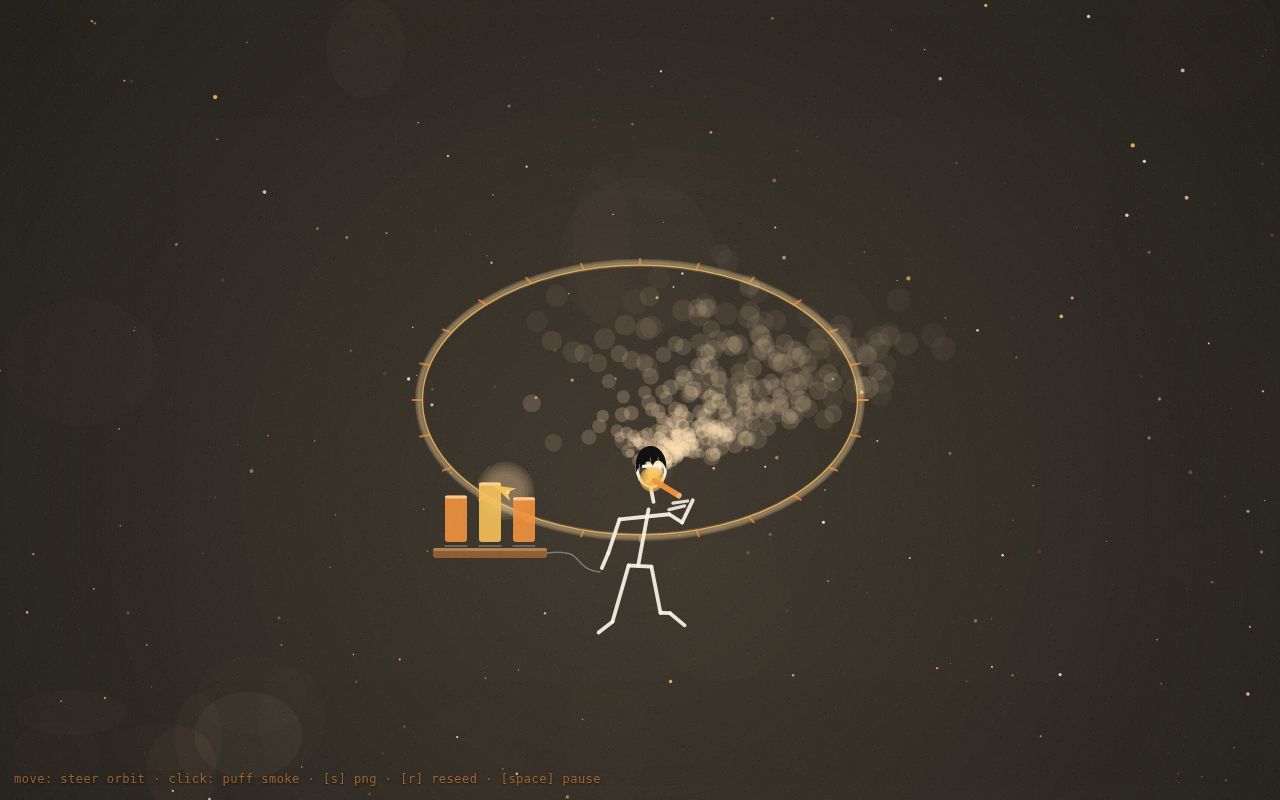
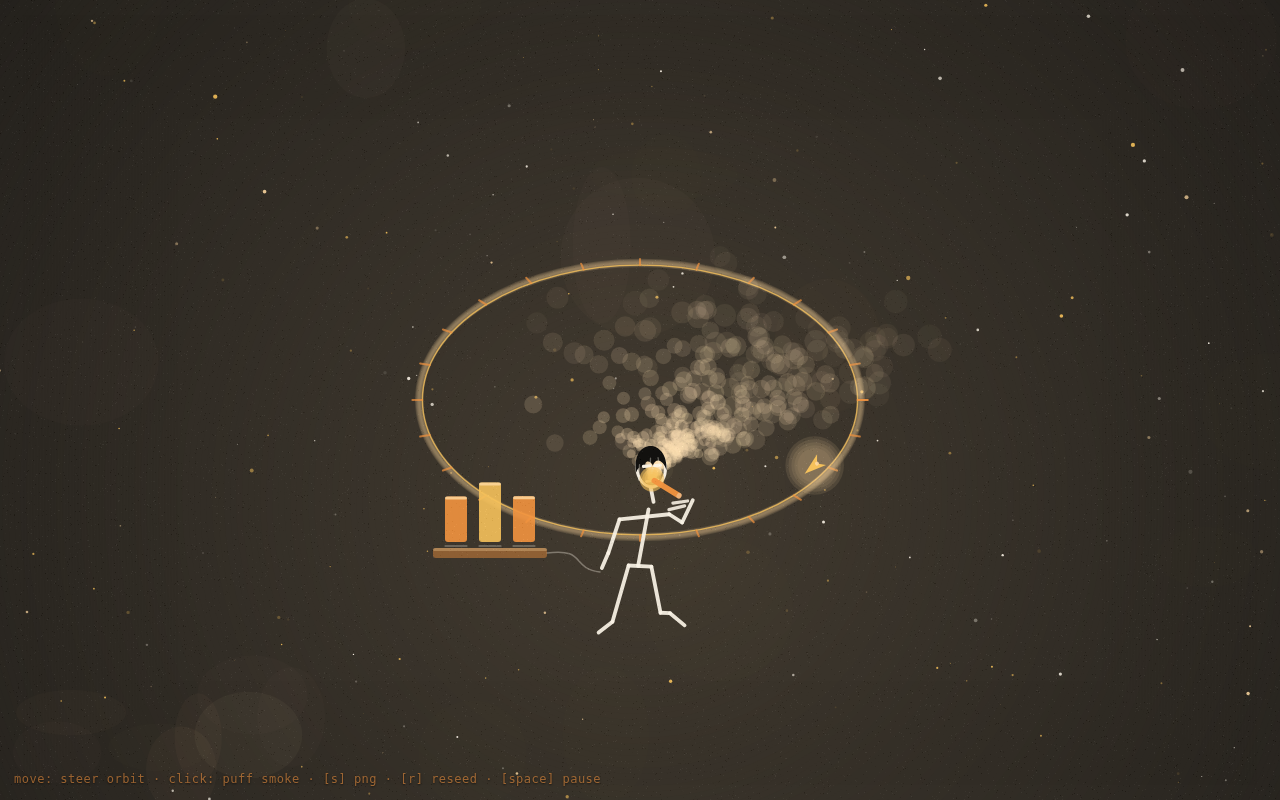
style(bebop): cargo fmt the crate + refresh lounge frame
- cargo fmt applied repo config to cli/mission/outfit/radio (struct
  literals expanded; no logic change).
- bebop-lounge-frame.png: regenerated from the verified headless render.

Changed region(s): [[0.5, 0.4688, 0.625, 0.5625], [0.5938, 0.5312, 0.6562, 0.625], [0.375, 0.5625, 0.4375, 0.6562]]

diff --git a/crates/bebop/src/radio.rs b/crates/bebop/src/radio.rs
@@ -25,16 +25,56 @@ pub struct Station {
 /// Curated, free-to-listen Lofi / Jazz deck. All listener-supported, no login.
 /// SomaFM's streams are free to listen and explicitly permit listening clients.
 pub const STATIONS: &[Station] = &[
-    Station { name: "Groove Salad",     kind: "lofi",  url: "https://ice1.somafm.com/groovesalad-128-mp3" },
-    Station { name: "Lush",             kind: "lofi",  url: "https://ice1.somafm.com/lush-128-mp3" },
-    Station { name: "Drone Zone",       kind: "space", url: "https://ice1.somafm.com/dronezone-128-mp3" },
-    Station { name: "Jazz Greetings",   kind: "jazz",  url: "https://ice1.somafm.com/jazzgreetings-128-mp3" },
-    Station { name: "Sonic Universe",   kind: "jazz",  url: "https://ice1.somafm.com/sonicuniverse-128-mp3" },
-    Station { name: "Boot Liquor",      kind: "jazz",  url: "https://ice1.somafm.com/bootliquor-128-mp3" },
-    Station { name: "Secret Agent",     kind: "jazz",  url: "https://ice1.somafm.com/secretagent-128-mp3" },
-    Station { name: "Seven Inch Soul",  kind: "jazz",  url: "https://ice1.somafm.com/seveninch-128-mp3" },
-    Station { name: "Illusion Flux",    kind: "lofi",  url: "https://ice1.somafm.com/illusionflux-128-mp3" },
-    Station { name: "Beat Blender",     kind: "lofi",  url: "https://ice1.somafm.com/beatblender-128-mp3" },
+    Station {
+        name: "Groove Salad",
+        kind: "lofi",
+        url: "https://ice1.somafm.com/groovesalad-128-mp3",
+    },
+    Station {
+        name: "Lush",
+        kind: "lofi",
+        url: "https://ice1.somafm.com/lush-128-mp3",
+    },
+    Station {
+        name: "Drone Zone",
+        kind: "space",
+        url: "https://ice1.somafm.com/dronezone-128-mp3",
+    },
+    Station {
+        name: "Jazz Greetings",
+        kind: "jazz",
+        url: "https://ice1.somafm.com/jazzgreetings-128-mp3",
+    },
+    Station {
+        name: "Sonic Universe",
+        kind: "jazz",
+        url: "https://ice1.somafm.com/sonicuniverse-128-mp3",
+    },
+    Station {
+        name: "Boot Liquor",
+        kind: "jazz",
+        url: "https://ice1.somafm.com/bootliquor-128-mp3",
+    },
+    Station {
+        name: "Secret Agent",
+        kind: "jazz",
+        url: "https://ice1.somafm.com/secretagent-128-mp3",
+    },
+    Station {
+        name: "Seven Inch Soul",
+        kind: "jazz",
+        url: "https://ice1.somafm.com/seveninch-128-mp3",
+    },
+    Station {
+        name: "Illusion Flux",
+        kind: "lofi",
+        url: "https://ice1.somafm.com/illusionflux-128-mp3",
+    },
+    Station {
+        name: "Beat Blender",
+        kind: "lofi",
+        url: "https://ice1.somafm.com/beatblender-128-mp3",
+    },
 ];
 
 /// Deterministic pick: station index from a seed (const LCG, no RNG/Date).
@@ -123,7 +163,7 @@ fn open_url(url: &str) -> std::io::Result<()> {
     let (prog, arg) = if cfg!(target_os = "macos") {
         ("open", url)
     } else if cfg!(target_os = "windows") {
-        ("cmd", "/C")  // we then add start "" url as separate args
+        ("cmd", "/C") // we then add start "" url as separate args
     } else {
         ("xdg-open", url)
     };

diff --git a/crates/bebop/src/outfit.rs b/crates/bebop/src/outfit.rs
@@ -62,11 +62,11 @@ pub const OUTFIT: Outfit = Outfit {
     tagline: "your ship.",
     creed: "Hybrid is a feature, not a bug.",
     palette: Palette {
-        ship: 0xF4C25A, // luminous sun-gold
-        tele: 0xF2933E, // warm orange telemetry
-        glow: 0xFFD9A0, // luminous peach — loader halo / hints
-        bone: 0xFBF3E7, // warm ivory text
-        void: 0x12100E, // warm-noir ground
+        ship: 0xF4C25A,  // luminous sun-gold
+        tele: 0xF2933E,  // warm orange telemetry
+        glow: 0xFFD9A0,  // luminous peach — loader halo / hints
+        bone: 0xFBF3E7,  // warm ivory text
+        void: 0x12100E,  // warm-noir ground
         alert: 0xE0543E, // warm red, alerts/drift only
     },
     sigil: '◈', // ◈ — the ship's eye, sun-warm

diff --git a/crates/bebop/src/cli.rs b/crates/bebop/src/cli.rs
@@ -187,7 +187,9 @@ pub fn run() {
                 }
                 "onair" | "shuffle" => crate::radio::on_air(seed),
                 "stop" | "off" => {
-                    println!("  ◈ radio off — the lounge goes quiet. (close your player to stop audio.)");
+                    println!(
+                        "  ◈ radio off — the lounge goes quiet. (close your player to stop audio.)"
+                    );
                     Ok(())
                 }
                 s => match s.parse::<usize>() {

diff --git a/crates/bebop/src/mission.rs b/crates/bebop/src/mission.rs
@@ -64,9 +64,7 @@ pub fn mission_summary(title: &str, lines: &[&str]) {
     for l in lines {
         println!("    · {}", l);
     }
-    println!(
-        "  ◈ signed — bebop. still flying. (cigar not shipped in the build)"
-    );
+    println!("  ◈ signed — bebop. still flying. (cigar not shipped in the build)");
     println!();
 }
 